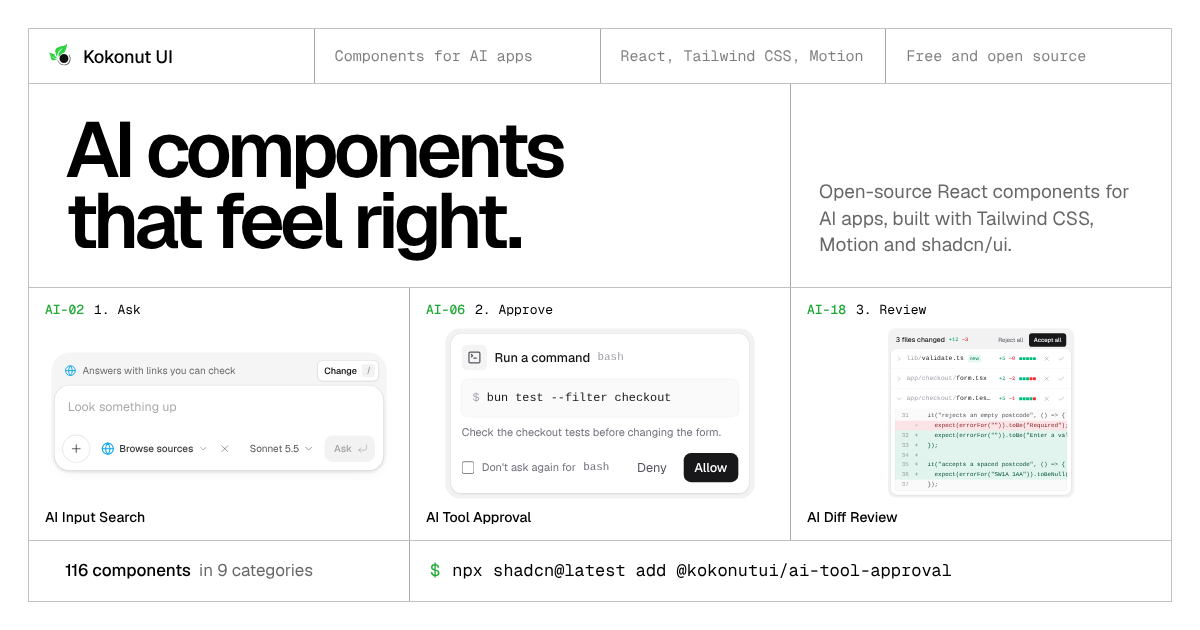
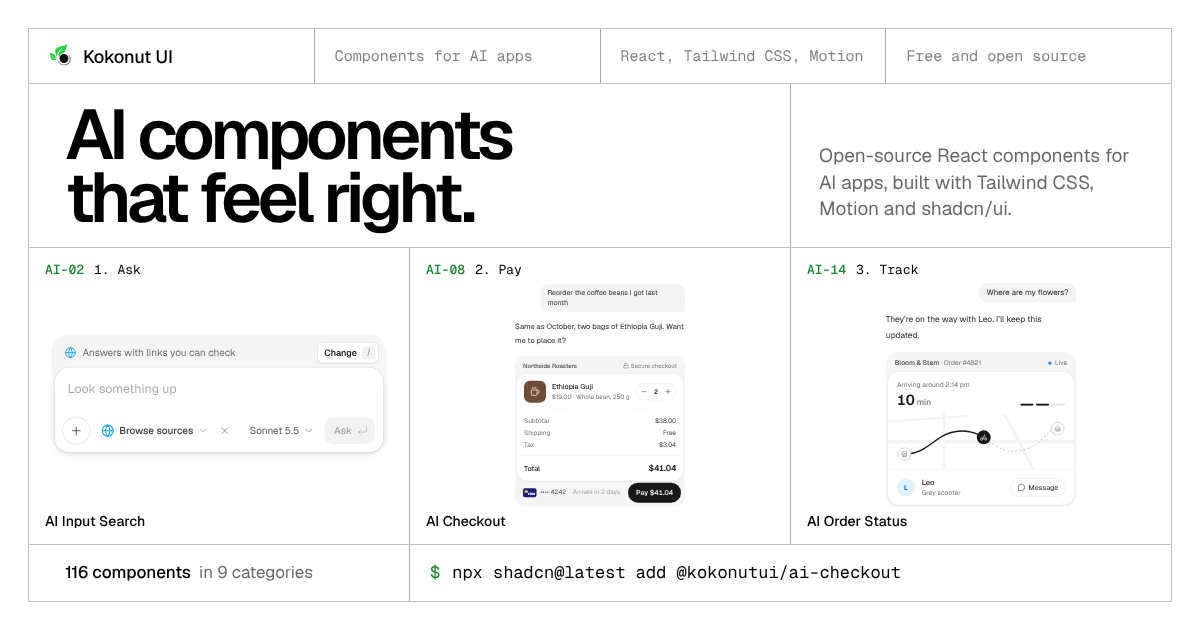
Show an order in the cover: ask, pay, track
The approval and the diff read as developer tooling on a landing page.
The cover now tells one order in three live parts: AI Input Search,
AI Checkout and AI Order Status, each at its own size.

- The two cards get the height they need instead of being reduced; the
  composer keeps a short cell when the three stack
- AI Voice takes the checkout's place in the AI plates
- The courier runs slower here so it is still on the road after the
  headline
- Share image redrawn with the same three parts

Claude-Session: https://claude.ai/code/session_01YQQA3ABWcyqZDnyJQVcB9K

diff --git a/components/landing/home/catalog.tsx b/components/landing/home/catalog.tsx
@@ -64,19 +64,19 @@ import { VideoCard } from "./video";
 /** The newest release, shown under Vercel in the cover. */
 const LATEST = RELEASES[0];
 /**
- * One agent turn told in three live parts, left to right: ask, approve the
- * tool call, review the change.
+ * One order told in three live parts, left to right: ask for it, pay in the
+ * chat, follow the delivery.
  */
 const FLOW = [
-  { name: "ai-input-search", label: "Ask" },
-  { name: "ai-tool-approval", label: "Approve" },
-  { name: "ai-diff-review", label: "Review" },
+  { name: "ai-input-search", label: "Ask", room: "min-h-[240px]" },
+  { name: "ai-checkout", label: "Pay", room: "min-h-[460px]" },
+  { name: "ai-order-status", label: "Track", room: "min-h-[460px]" },
 ];
 /** The middle step of the cover, asked for the way you'd ask a colleague. */
-const AGENT_PROMPT = "Add @kokonutui/ai-tool-approval to my agent's chat";
+const AGENT_PROMPT = "Add @kokonutui/ai-checkout to my agent's chat";
 const AI_PLATES = [
   "ai-tool-calls",
-  "ai-checkout",
+  "ai-voice",
   "ai-prompt",
   "ai-model-selector",
   "ai-loading",
@@ -128,7 +128,7 @@ export function Catalog({
         steps={steps}
       />
       <Plates
-        aside="The parts of an AI product people touch: tool calls in a reply, a checkout in the chat, the model picker. Live demos, not screenshots."
+        aside="The parts of an AI product people touch: tool calls in a reply, voice input, the model picker. Live demos, not screenshots."
         id="ai"
         number="01"
         plates={pick(AI_PLATES)}
@@ -154,6 +154,11 @@ export function Catalog({
 interface FlowStep {
   label: string;
   part: Part;
+  /**
+   * Height that shows the part at its own size. Side by side, the row takes
+   * the tallest; stacked, the composer doesn't hold a card's worth of space.
+   */
+  room: string;
 }
 
 function Cover({
@@ -222,10 +227,10 @@ function Cover({
             )}
             style={enter(1)}
           >
-            Open-source React components for AI apps: the prompt box, the tool
-            call that needs a yes, the diff to review, and the inputs and cards
-            around them. All live on this page. Install any of them with one
-            command or one prompt.
+            Open-source React components for AI apps: the prompt box, the
+            checkout inside a reply, the order you can follow, and the inputs
+            and cards around them. All live on this page. Install any of them
+            with one command or one prompt.
           </p>
         </div>
         <div
@@ -245,6 +250,7 @@ function Cover({
             key={step.part.name}
             label={`${i + 1}. ${step.label}`}
             part={step.part}
+            room={step.room}
           />
         ))}
       </div>
@@ -327,7 +333,11 @@ function HeroActions({ count }: { count: number }) {
 }
 
 /** One step of the cover's agent turn: a live part under its step name. */
-function FlowPlate({ part, label }: { part: Part; label: string }) {
+function FlowPlate({
+  part,
+  label,
+  room,
+}: Pick<FlowStep, "part" | "room"> & { label: string }) {
   const { Component: Demo, hint } = LIVE[part.name];
   return (
     <figure className={cn("home-enter flex flex-col", CELL)} style={enter(1)}>
@@ -340,7 +350,7 @@ function FlowPlate({ part, label }: { part: Part; label: string }) {
         </span>
         <span className={cn(META, "truncate")}>{hint}</span>
       </div>
-      <div className="relative min-h-[340px] flex-1">
+      <div className={cn("relative flex-1", room)}>
         <Fit className="px-5 py-4">
           <Suspense fallback={<LiveFallback />}>
             <Demo />

diff --git a/components/og/frames.tsx b/components/og/frames.tsx
@@ -137,12 +137,12 @@ function Headline({ className }: { className?: string }) {
   );
 }
 
-/** The cover's agent turn, one step per part, in order. */
-const STEPS = ["Ask", "Approve", "Review"];
+/** The cover's order, one step per part. */
+const STEPS = ["Ask", "Pay", "Track"];
 
 /**
  * The homepage's link preview: the cover's first screen at preview size. The
- * tagline, then one agent turn in three live parts.
+ * tagline, then one order in three live parts.
  */
 export function CoverFrame({
   theme,
@@ -160,7 +160,7 @@ export function CoverFrame({
 }) {
   return (
     <Canvas theme={theme}>
-      <div className={cn("grid grid-rows-[54px_1fr_252px_60px]", GRID)}>
+      <div className={cn("grid grid-rows-[54px_1fr_296px_56px]", GRID)}>
         <MetaRow
           cells={[
             <Brand key="brand" theme={theme} />,
@@ -173,9 +173,9 @@ export function CoverFrame({
         />
         <div className={cn("grid grid-cols-12", GRID)}>
           <div className={cn("col-span-8 flex items-center px-9", CELL)}>
-            <Headline className="text-[78px]" />
+            <Headline className="text-[70px]" />
           </div>
-          <div className={cn("col-span-4 flex items-end px-7 pb-7", CELL)}>
+          <div className={cn("col-span-4 flex items-end px-7 pb-6", CELL)}>
             <p className={cn("text-pretty text-[19px] leading-[1.4]", SOFT)}>
               Open-source React components for AI apps, built with Tailwind CSS,
               Motion and shadcn/ui.
@@ -194,7 +194,7 @@ export function CoverFrame({
                 </span>
               </span>
               <div className="relative flex-1">
-                <Fit className="px-5 py-2">
+                <Fit className="px-5 py-1">
                   <Live name={part.name} />
                 </Fit>
               </div>

diff --git a/components/landing/home/live.tsx b/components/landing/home/live.tsx
@@ -129,17 +129,6 @@ export const LIVE: Record<string, LiveEntry> = {
     ),
     "Pick a tool with /, then ask"
   ),
-  "ai-tool-approval": live(
-    () => import("@/components/kokonutui/ai-tool-approval"),
-    ({ default: C }) => <C className="w-full max-w-[440px]" />,
-    "Allow it, or hold for risky ones"
-  ),
-  "ai-diff-review": live(
-    () => import("@/components/kokonutui/ai-diff-review"),
-    // A fixed width keeps its header on one line; Fit reduces it to fit.
-    ({ default: C }) => <C className="w-[380px] max-w-none" />,
-    "Accept or reject each file"
-  ),
   "ai-tool-calls": live(
     () => import("@/components/kokonutui/ai-tool-calls"),
     ({ default: C }) => <C />,
@@ -149,6 +138,18 @@ export const LIVE: Record<string, LiveEntry> = {
     () => import("@/components/kokonutui/ai-checkout"),
     ({ default: C }) => <C />,
     "Pay without leaving the chat"
+  ),
+  "ai-order-status": live(
+    () => import("@/components/kokonutui/ai-order-status"),
+    // Slower than the docs demo, so the courier is still on the road once
+    // you've read the headline.
+    ({ default: C }) => <C minuteMs={2400} />,
+    "Watch the courier arrive"
+  ),
+  "ai-voice": live(
+    () => import("@/components/kokonutui/ai-voice"),
+    ({ default: C }) => <C />,
+    "Record, then play it back or send"
   ),
   "ai-model-selector": live(
     () => import("@/components/kokonutui/ai-model-selector"),

diff --git a/app/og-lab/cover/[theme]/page.tsx b/app/og-lab/cover/[theme]/page.tsx
@@ -6,10 +6,10 @@ import { CoverFrame, type Theme } from "@/components/og/frames";
 export const metadata: Metadata = { robots: "noindex, nofollow" };
 
 const THEMES: Theme[] = ["light", "dark"];
-/** The cover's agent turn: ask, approve the tool call, review the change. */
-const FEATURED = ["ai-input-search", "ai-tool-approval", "ai-diff-review"];
+/** The cover's order: ask for it, pay in the chat, follow the delivery. */
+const FEATURED = ["ai-input-search", "ai-checkout", "ai-order-status"];
 /** The part the install line names. */
-const INSTALL = "ai-tool-approval";
+const INSTALL = "ai-checkout";
 
 export function generateStaticParams() {
   return THEMES.map((theme) => ({ theme }));

diff --git a/scripts/build-og.ts b/scripts/build-og.ts
@@ -20,7 +20,7 @@ const BASE = process.env.OG_URL ?? "http://localhost:3000";
 const FRAME = process.env.OG_PATH ?? "/og-lab/cover/light";
 const OG = path.join(process.cwd(), "app/opengraph-image.png");
 const TWITTER = path.join(process.cwd(), "app/twitter-image.png");
-/** Long enough for the diff to finish streaming in. */
+/** Long enough for the live parts to settle. */
 const SETTLE_MS = 6000;
 
 const browser = await chromium.launch(
